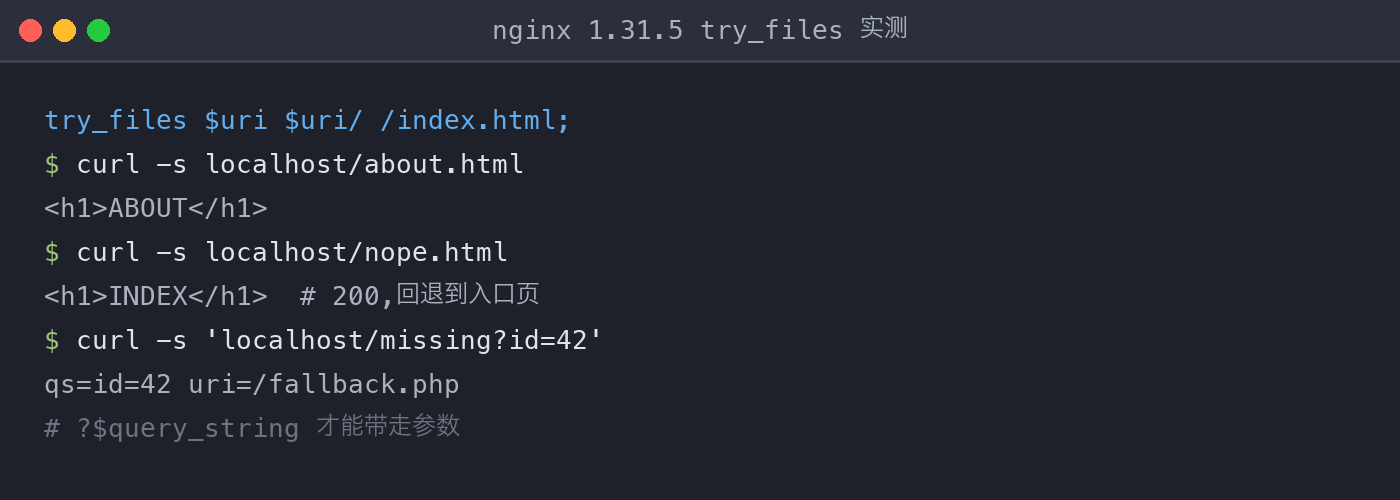
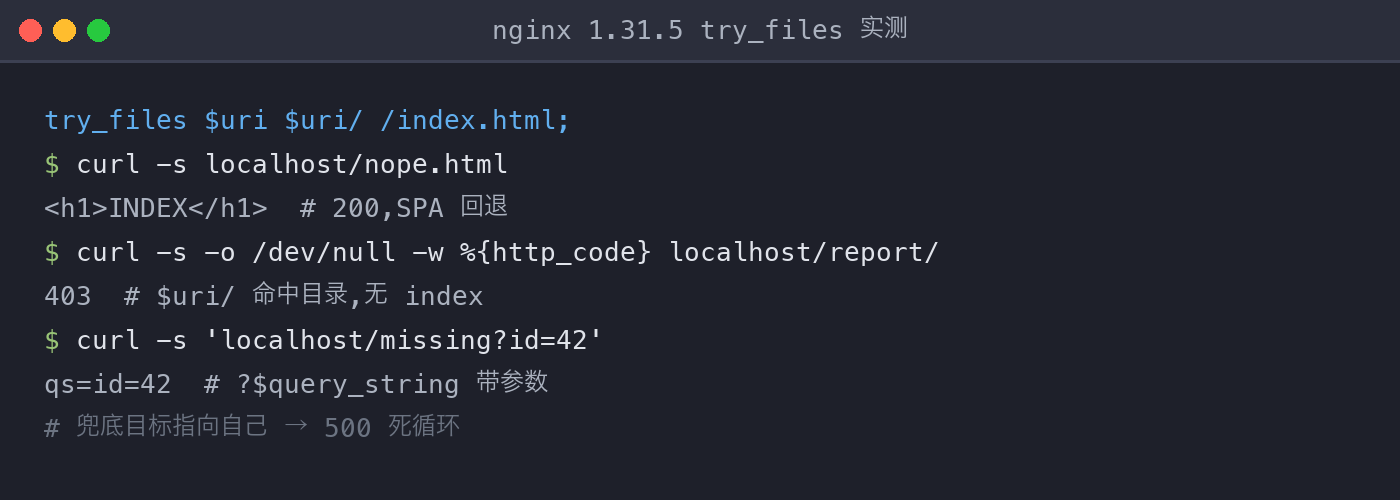
post: try_files 篇按基准线 v2 重做（类型声明/沙漏骨架/句法校验/新增死循环与error_page实跑）

diff --git a/source/_posts/nginx-try-files-csdn139177618.md b/source/_posts/nginx-try-files-csdn139177618.md
@@ -8,33 +8,21 @@ copyright_author: 司南
 cover: https://images.unsplash.com/photo-1575318634028-6a0cfcb60c59?w=1600&q=80&fm=jpg
 ---
 
-把一个用 Vue 或 React 写的前端项目部署到 Nginx，访问首页一切正常，点进 `/orders/42` 也正常——然后用户在这个页面按了 F5，一个 404 砸在脸上。原因很简单：`/orders/42` 这个路径在磁盘上根本不存在，它是前端路由虚拟出来的，Nginx 找不到文件，就只能报 404。
+把一个用 Vue 或 React 写的前端项目部署到 Nginx，访问首页一切正常，点进 `/orders/42` 也正常——然后用户在这个页面按了 F5，一个 404 砸在脸上。原因是：`/orders/42` 是前端路由虚拟出来的路径，磁盘上并不存在，Nginx 找不到文件只能报 404。
 
-`try_files` 就是用来解决这类问题的指令：按你给的顺序逐个检查候选路径，命中一个就返回，全部落空时走你指定的兜底方案。本文基于 nginx/1.31.5（docker 镜像 `nginx:alpine`）实跑验证，所有输出都是真实执行结果。
+**结论先行：`try_files` 一条指令就能解决这类问题——前几个参数按序检查文件是否存在，最后一个参数决定"全部落空时怎么办"。** 本文按 how-to 组织：先交代实验环境，再给三组可直接复制的配置与真实输出（SPA 回退、严格 404、转发后端），最后用两个事故实验说清这条指令的边界。所有输出均为实跑结果，未跑过的结论会明确标注。
 
 ![配图](/images/csdn/figures/nginx-try-files-csdn139177618.png)
 
-## 工作机制：按序检查，最后一个参数兜底
+## 实验环境
 
-`try_files` 接受两个或更多参数：
+可复现是前提，先交代条件：
 
-```nginx
-try_files 参数1 参数2 ... 最后一个参数;
-```
+- nginx/1.31.5（docker 镜像 `nginx:alpine`）；
+- 站点目录挂载到 `/usr/share/nginx/html`，配置挂载到 `/etc/nginx/conf.d/`；
+- 每轮改动配置后 `docker exec 容器名 nginx -s reload`，用 `curl` 验证。
 
-前几个参数按顺序做**存在性检查**，命中即停：
-
-- 写成 `$uri` —— 检查磁盘上有没有对应文件；
-- 写成 `$uri/` —— 检查有没有对应目录；
-- 写成命名 location（如 `@backend`）—— 跳转过去。
-
-**只有最后一个参数不一样**：它不做检查，是全部落空后的兜底动作。可以是一个内部重定向的 URI（如 `/index.html`），也可以直接给状态码（如 `=404`）。
-
-理解"内部重定向"很关键：兜底到 URI 时，请求会**从头再走一遍 location 匹配**，等于 Nginx 内部替用户重新发起了一次请求。这个特性既成就了 SPA 回退，也藏着死循环的坑，后面注意事项里细说。
-
-## 实例一：静态站 + SPA 回退
-
-准备一个最小站点：
+最小站点结构：
 
 ```
 /usr/share/nginx/html/
@@ -44,7 +32,21 @@ try_files 参数1 参数2 ... 最后一个参数;
     └── 2024.html   → <h1>REPORT 2024</h1>
 ```
 
-配置：
+## 指令语义：检查参数在前，兜底参数在后
+
+`try_files` 的全部语义浓缩成一句话：**前面的参数负责"依次找"，最后一个参数负责"都找不到时怎么办"**。
+
+```nginx
+try_files 参数1 参数2 ... 最后一个参数;
+```
+
+前面的参数做**存在性检查**，命中即停：`$uri` 查文件、`$uri/` 查目录、命名 location（`@backend`）跳转过去。**最后一个参数是兜底**，不做检查，全部落空时才执行——可以是一个 URI（触发内部重定向），也可以直接给状态码（`=404`）。
+
+内部重定向是理解一切坑的钥匙：兜底到 URI 时，请求会从头再走一遍 location 匹配，等于 Nginx 替用户重新发起了一次请求。
+
+## 实例一：SPA 回退，并小心 403 坑
+
+一行配置解决 F5 404——这是 `try_files` 最常用的姿势：
 
 ```nginx
 server {
@@ -59,21 +61,14 @@ server {
 
 三种请求的真实结果：
 
-**文件存在，第一个参数命中：**
+**文件存在，`$uri` 命中：**
 
 ```bash
 $ curl -s localhost/about.html
 <h1>ABOUT</h1>
 ```
 
-**子目录下的文件，同样第一个参数命中：**
-
-```bash
-$ curl -s localhost/report/2024.html
-<h1>REPORT 2024</h1>
-```
-
-**文件不存在，前两个参数落空，兜底到 /index.html：**
+**文件不存在，落空后兜底到 `/index.html`：**
 
 ```bash
 $ curl -s localhost/nope.html
@@ -83,44 +78,46 @@ $ curl -s -o /dev/null -w '%{http_code}\n' localhost/nope.html
 200
 ```
 
-注意最后一组：请求的是 `/nope.html`，返回的却是首页内容，状态码 200。这就是 SPA 部署的标配行为——前端拿到入口页后由 JS 读取 URL 渲染对应路由，用户完全无感。
+用户请求 `/nope.html`，拿到的却是首页内容和 200——前端拿到入口页后由 JS 读取 URL 渲染路由，用户无感。这就是 F5 404 问题的解法。
 
-但这个配置有个不显眼的坑。请求 `/report/`（目录存在，里面没有 index.html）时：
+**但这套配置里藏着一个 403 坑。** 请求 `/report/`（目录存在，里面没有 index.html）：
 
 ```bash
 $ curl -s -o /dev/null -w '%{http_code}\n' localhost/report/
 403
 ```
 
-返回 403 而不是回退。原因：`$uri/` 检查的是"目录是否存在"，`report/` 存在即命中；接着 `index` 指令去找目录下的 `index.html`，找不到，Nginx 默认不开 autoindex，于是 403 Forbidden。**命中目录不等于能给出内容**——不想要这个行为，就把 `$uri/` 从参数里去掉。
+原因：`$uri/` 检查的是"目录是否存在"，`report/` 存在即命中；随后 `index` 指令找目录下的 `index.html`，找不到，autoindex 默认关闭，于是 403。**命中目录不等于能给出内容**——不想要这个行为，把 `$uri/` 从参数里去掉即可。
 
-## 实例二：`=404` 兜底，让该 404 的老实 404
+## 实例二：`=404` 兜底，配合 error_page 做自定义错误页
 
-不是所有站点都需要 SPA 回退。纯静态内容站上，兜底到首页会让死链悄悄返回 200，搜索引擎会把重复的首页内容收一堆。该 404 的就让它 404：
+纯静态内容站不该让死链返回 200（搜索引擎会收录一堆重复首页）。让该 404 的老实 404，并顺手自定义错误页：
 
 ```nginx
-location / {
-    try_files $uri $uri/ =404;
+server {
+    listen 80;
+    root /usr/share/nginx/html;
+    error_page 404 /404.html;
+    location / {
+        try_files $uri $uri/ =404;
+    }
 }
 ```
 
-同一个站点，换个兜底再测：
+实测结果：
 
 ```bash
-$ curl -s -o /dev/null -w '%{http_code}\n' localhost/nope.html
-404
+$ curl -s -w '\nHTTP %{http_code}\n' localhost/nope.html
+<h1>CUSTOM 404</h1>
 
-$ curl -s localhost/report/2024.html
-<h1>REPORT 2024</h1>
+HTTP 404
 ```
 
-存在的文件照常返回，不存在的老实给 404。配合 `error_page 404 /404.html;` 还能自定义错误页——404 先发生，`error_page` 再把响应内容替换掉，两件事不冲突。
+状态码保持 404，响应体被 `error_page` 替换成自定义页——两件事各干各的，互不冲突。`=404` 与 URI 兜底的语义差别：`=404` 直接终结请求，省一次内部重定向；URI 兜底要重走 location 匹配。前者更省，后者更灵活。
 
-`=404` 和 URI 兜底的语义差别值得记住：`=404` 直接终结请求，省掉一次内部重定向；URI 兜底则要重走 location 匹配。前者更省，后者更灵活，按需选。
+## 实例三：转发后端时，查询参数别弄丢
 
-## 实例三：转发给后端时，查询参数别弄丢
-
-伪静态或前后端混合部署时，常见写法是把找不到的请求转给 PHP 或后端网关：
+伪静态场景把找不到的请求转给 PHP 或网关，兜底 URI 末尾的 `?$query_string` 不是装饰：
 
 ```nginx
 location / {
@@ -132,16 +129,39 @@ location = /index.php {
 }
 ```
 
-兜底 URI 末尾的 `?$query_string` 不是装饰。做个对照实验，请求带上查询参数：
+带参数请求的实测结果：
 
 ```bash
 $ curl -s 'localhost/missing?id=42&type=report'
 qs=id=42&type=report uri=/fallback.php
 ```
 
-`$query_string` 完整地把 `id=42&type=report` 带到了兜底目标。如果写成 `try_files $uri $uri/ /index.php;`，参数就丢在半路——后端拿不到 `id=42`，业务直接瞎掉。这是我见过最多的 try_files 事故，没有之一。
+`$query_string` 把 `id=42&type=report` 完整带到兜底目标。漏写它，后端拿不到业务参数，这是 try_files 最高频的事故。输出里还有个细节：兜底后 `uri=/fallback.php`——**内部重定向发生时，`$uri` 已变成兜底目标本身**；要拿用户原始路径，用 `$request_uri`。
 
-另外一个细节藏在输出里：兜底后 `uri=/fallback.php`。内部重定向发生时，`$uri` 已经变成了兜底目标本身，不再是用户请求的原始路径。想拿原始路径，用 `$request_uri`。
+## 事故实验：兜底目标选了自己，500 伺候
+
+把兜底 URI 指向一个不存在的文件，且它仍会命中同一个 location：
+
+```nginx
+location / {
+    try_files $uri /loop.html;   # loop.html 不存在
+}
+```
+
+请求任意不存在的路径，实测直接 500：
+
+```bash
+$ curl -s -o /dev/null -w '%{http_code}\n' localhost/nope.html
+500
+```
+
+错误日志给出了精确原因：
+
+```
+rewrite or internal redirection cycle while internally redirecting to "/loop.html"
+```
+
+链路是：`/nope.html` 不存在 → 兜底到 `/loop.html` → 内部重定向重新匹配 location → `/loop.html` 还是不存在 → 再兜底到自己 → 循环到 10 次上限，Nginx 强制 500。**兜底目标必须最终能被命中**，写完配置拿一个必然不存在的路径 curl 一遍，是基本自测动作。
 
 ## 一组对比：两种错误写法
 
@@ -158,23 +178,23 @@ try_files $uri $uri/ /index.php?$query_string;
 **错误二：把兜底语义用在中间参数上**
 
 ```nginx
-# 错：/fallback.php 会被当作磁盘文件去检查，检查失败不报错，直接看下一个参数
+# 错：/fallback.php 被当作磁盘文件检查，失败不报错，直接看下一个参数
 try_files $uri /fallback.php =404;
 
 # 对：URI 兜底只能放最后
 try_files $uri =404;
 ```
 
-中间参数的位置上，URI 不会触发重定向，只会做一次注定失败的文件检查。规则就一条：**检查参数在前，兜底动作在后，兜底只写一个**。
+规则一条：检查参数在前，兜底动作在后，兜底只写一个。
 
 ## 注意事项
 
-- **顺序就是优先级**。`try_files` 按书写顺序检查，第一个命中即停。把宽泛的 `$uri/` 放在具体的文件规则前面，后面的参数永远轮不到。
-- **`$uri/` 是双刃剑**。命中目录但目录里没有 `index` 指定的文件时，结果是 403（autoindex 关闭时）。纯 API 站点通常不需要 `$uri/`。
-- **性能账**：每个参数都是一次磁盘 stat。候选堆到七八个的写法，等于让每个请求多跑七八次系统调用。三五个参数以内是常态，再多了先想想目录结构是不是该调。
-- **内部重定向有 10 次上限**。兜底目标如果又落回同一个 location 继续兜底（比如 `try_files $uri /index.html;` 而 location 匹配了 `/index.html` 自身），循环到第 10 次直接 500。写完配置，拿一个必然不存在的路径 curl 一下，是基本的自测动作。
-- **`alias` 搭配要格外小心**。`alias` 的路径替换规则和 `root` 不同，`try_files` 的参数拼接在 alias 场景下容易拼出意料之外的路径，这是 Nginx 配置审计里的高频问题。用 alias 时，务必逐条 curl 验证每个参数实际检查的物理路径。
+- **顺序就是优先级**。按书写顺序检查，第一个命中即停；宽泛的 `$uri/` 放前面，后面的参数永远轮不到。
+- **`$uri/` 是双刃剑**。命中目录但目录里没有 index 文件时返回 403（autoindex 关闭时）。纯 API 站点通常不需要它。
+- **性能账**。每个参数一次磁盘 stat，候选堆到七八个等于每个请求多七八次系统调用。三五个以内是常态，再多先调目录结构。
+- **内部重定向有 10 次上限**（上节已实测，500 + cycle 日志）。
+- **`alias` 搭配容易拼错路径**。alias 的路径替换规则与 root 不同，try_files 参数在 alias 下可能拼出意料之外的物理路径——此条来自官方文档与社区共识，本文未实跑，用 alias 时请逐条 curl 验证每个参数实际检查的路径。
 
 ## 小结
 
-`try_files` 的心智模型一句话：**前 N-1 个参数是"依次找"，第 N 个参数是"都找不到时怎么办"**。SPA 回退、伪静态转发、严格 404，三种姿势对应三种兜底写法；选哪种取决于你的站点能不能接受"不存在的路径返回 200"。配置写完，用一个必然 404 的路径和一条带参数的路径各 curl 一遍，两种事故都能在上线前拦住。
+回到开头的 F5 场景：`try_files $uri $uri/ /index.html;` 一行解决 SPA 刷新 404。这条指令的心智模型一句话——**前 N-1 个参数是"依次找"，第 N 个参数是"都找不到时怎么办"**。三个事故坑（目录 403、丢 query_string、兜底选自己死循环）都来自兜底参数的语义误解，配置写完用一个必然不存在的路径和一条带参数的路径各 curl 一遍，就能在上线前全部拦住。
